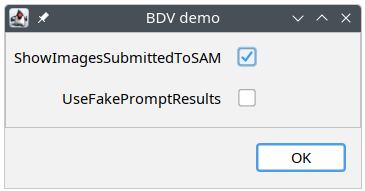
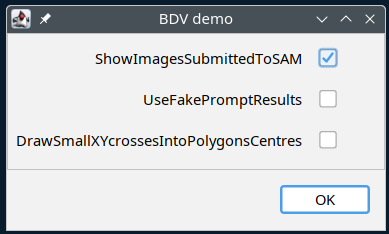
updated README.md

diff --git a/README.md b/README.md
@@ -13,8 +13,10 @@ A [BigDataViewer](https://imagej.net/plugins/bdv/) interface for the [SAMJ workh
 ![BDV Demo dialog](doc/BDV_demo_dialog.png)
 
 The two options are:
+
 - `ShowImagesSubmittedToSAM` - will show in ImageJ the image that is submitted to the network; useful to understand what's the scope of data that the network will see and use, also to be able to test the "standard" SAMJ on it.
 - `UseFakePromptResults` - the prompts from BDV will never make it to any network (no matter what you click later), instead fake results are directly returned; this is a mode for getting familiar first with the BDV and SAMJ integration itself.
+- `DrawSmallXYcrossesIntoPolygonsCentres` - the results of prompts (which are polygons) will be "marked" in the original image with a black cross in each polygon centre; this is a lame proof that [plugins can read the polygons back from BDV](https://github.com/segment-anything-models-java/SAMJ-BDV/blob/344f197a36bf098f99a62cfd2fb57dd71c21ddde/src/main/java/ai/nets/samj/bdv/ij/PluginFrontEnd.java#L37-L74).
 
 ### The concept of annotation sites
 Since BigDataViewer (BDV) can display images much larger than SAM networks can consume, the BDV is considered to be "only" an explorer of the image data that allows the user to maneuver, or obtain, a particular (2D) view on the image data. The 2D views, the displayed content on the screen, of the potentially larger 3D+ volume and the ability to change the views is an important concept here. The integration layer (this SW) of BDV with SAMJ is memorizing the user-defined views, which are called here **annotation sites**, and allows to recall and switch them, and of course annotate them.
